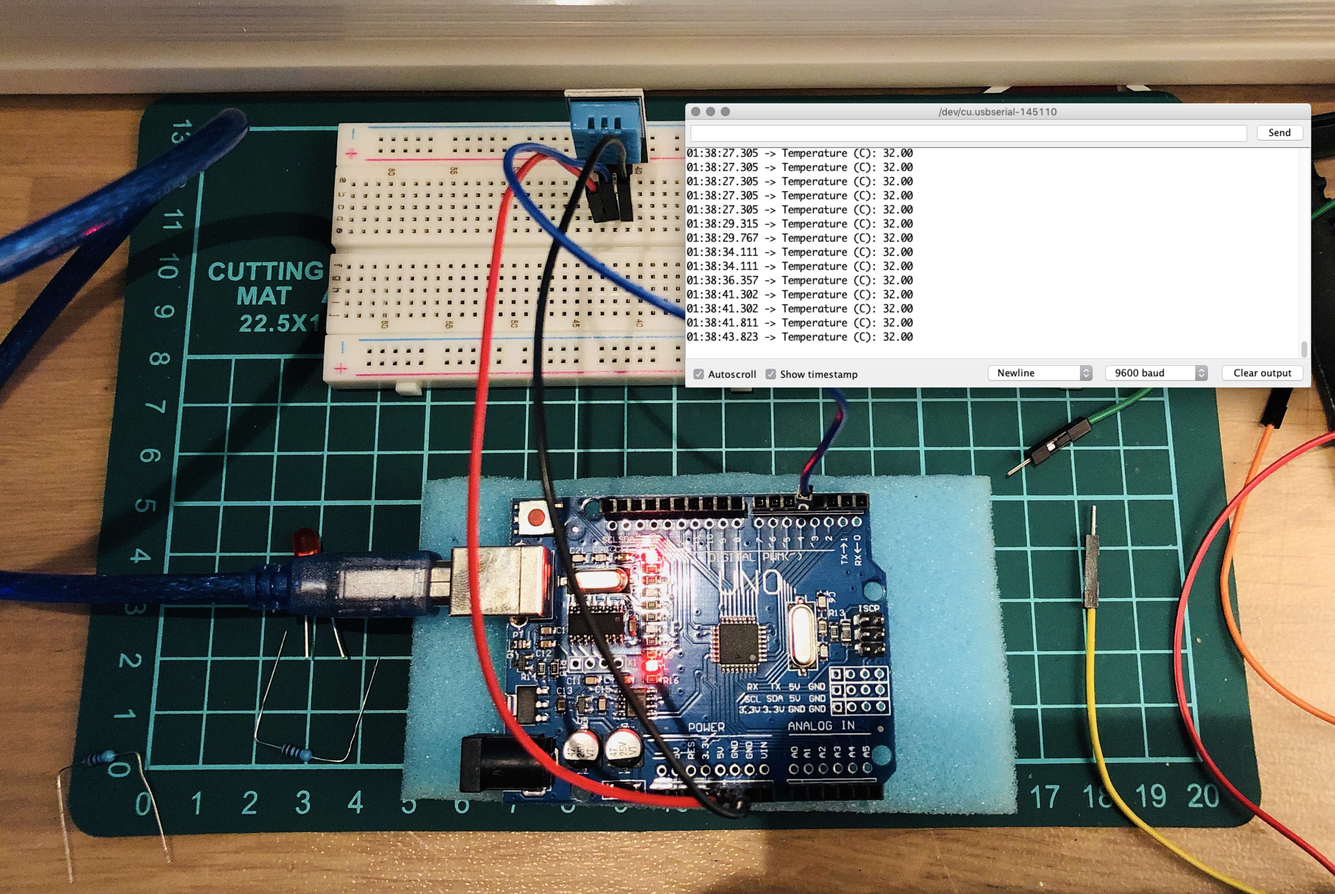
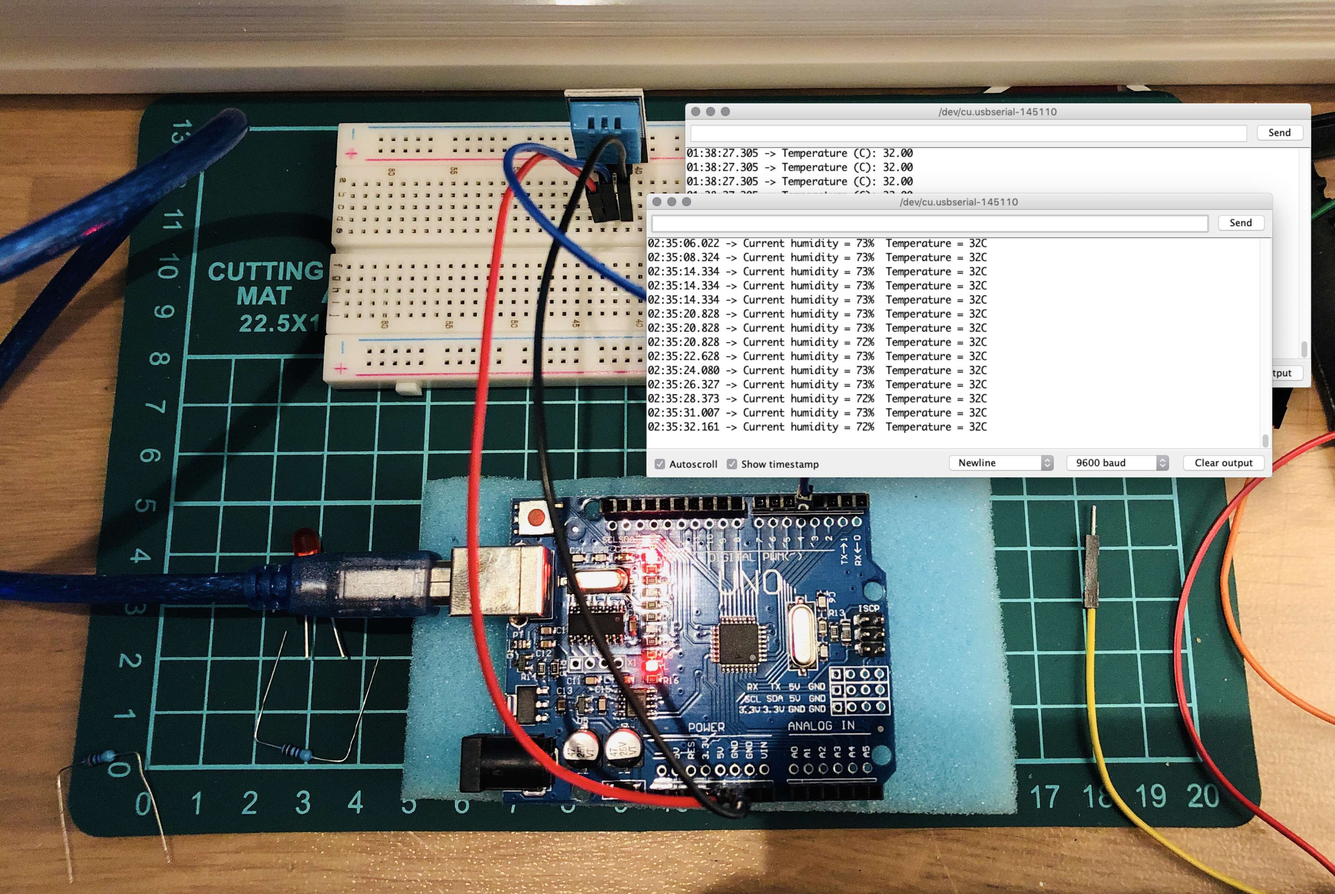
chore: update readme for humitity circuit

Changed region(s): [[0.4652, 0.2171, 0.9615, 0.5583]]

diff --git a/uno/temperature_humidity/README.md b/uno/temperature_humidity/README.md
@@ -1,5 +1,9 @@
 # Temperature and Humidity Sensor with LHT11 Module
 
+## Circuit
+
+![LED Blink](https://raw.githubusercontent.com/iamgoangle/golf-iot-projects/master/uno/temperature_humidity/circuit.jpg)
+
 ## Goal
 
 - Create a program to receive digital input and print out in serial monitor.
